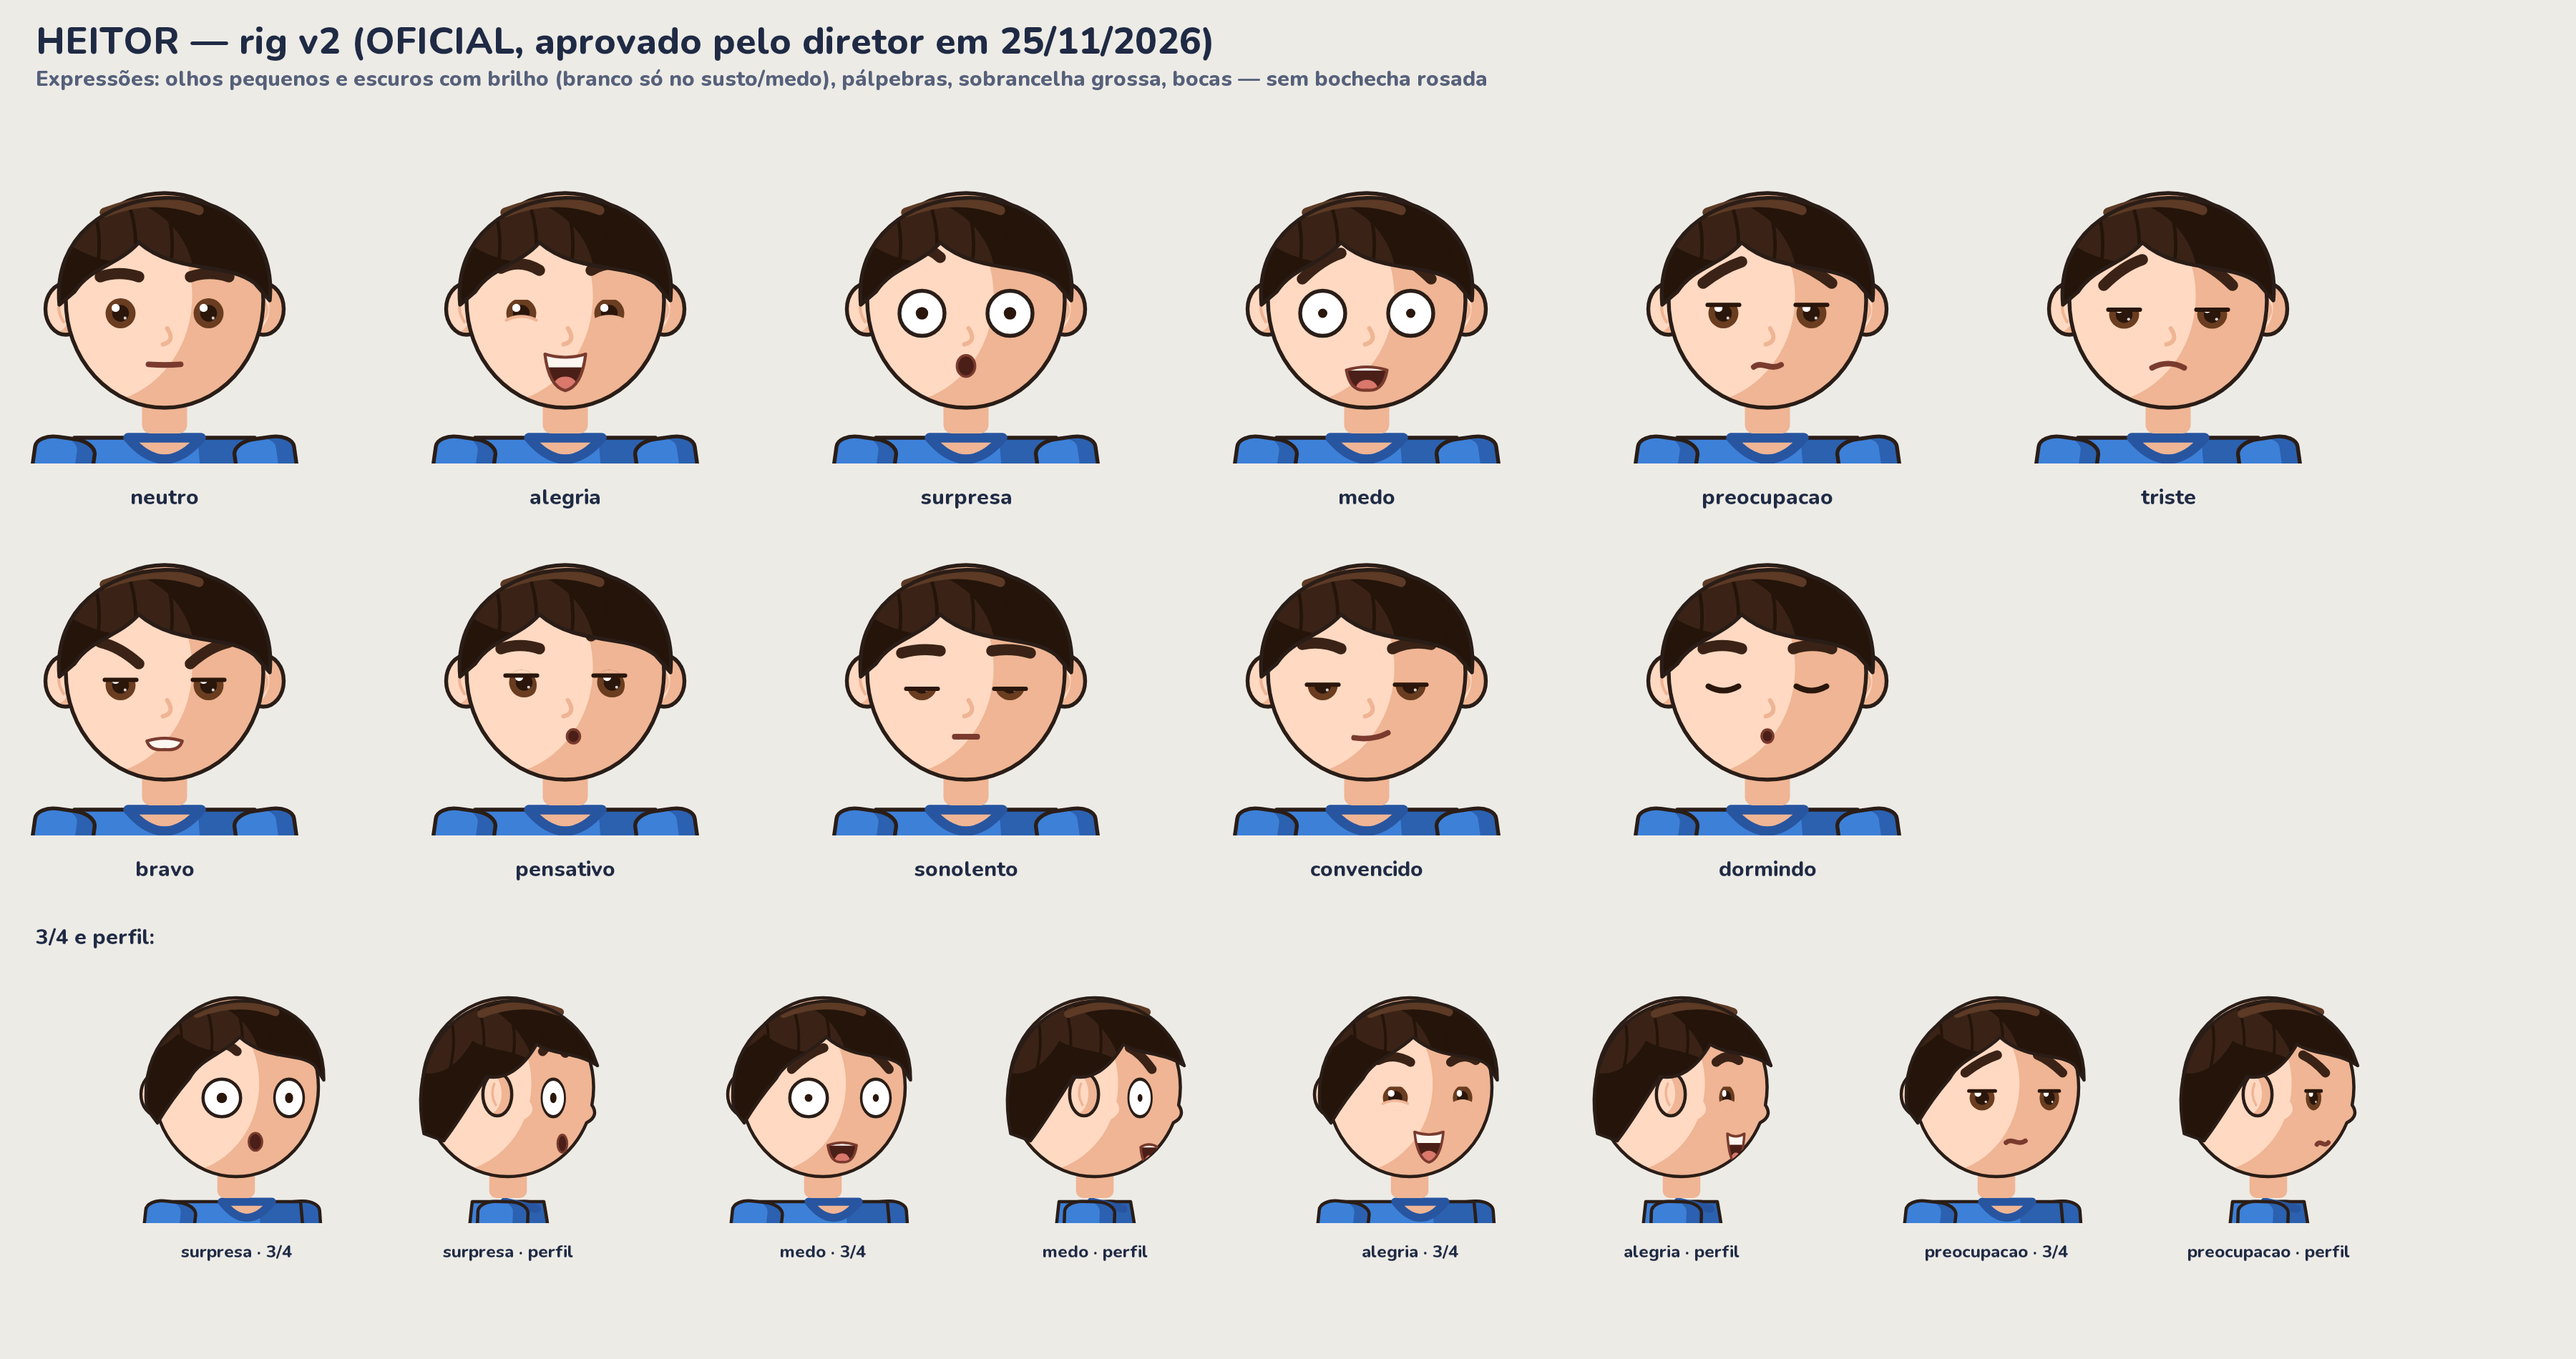
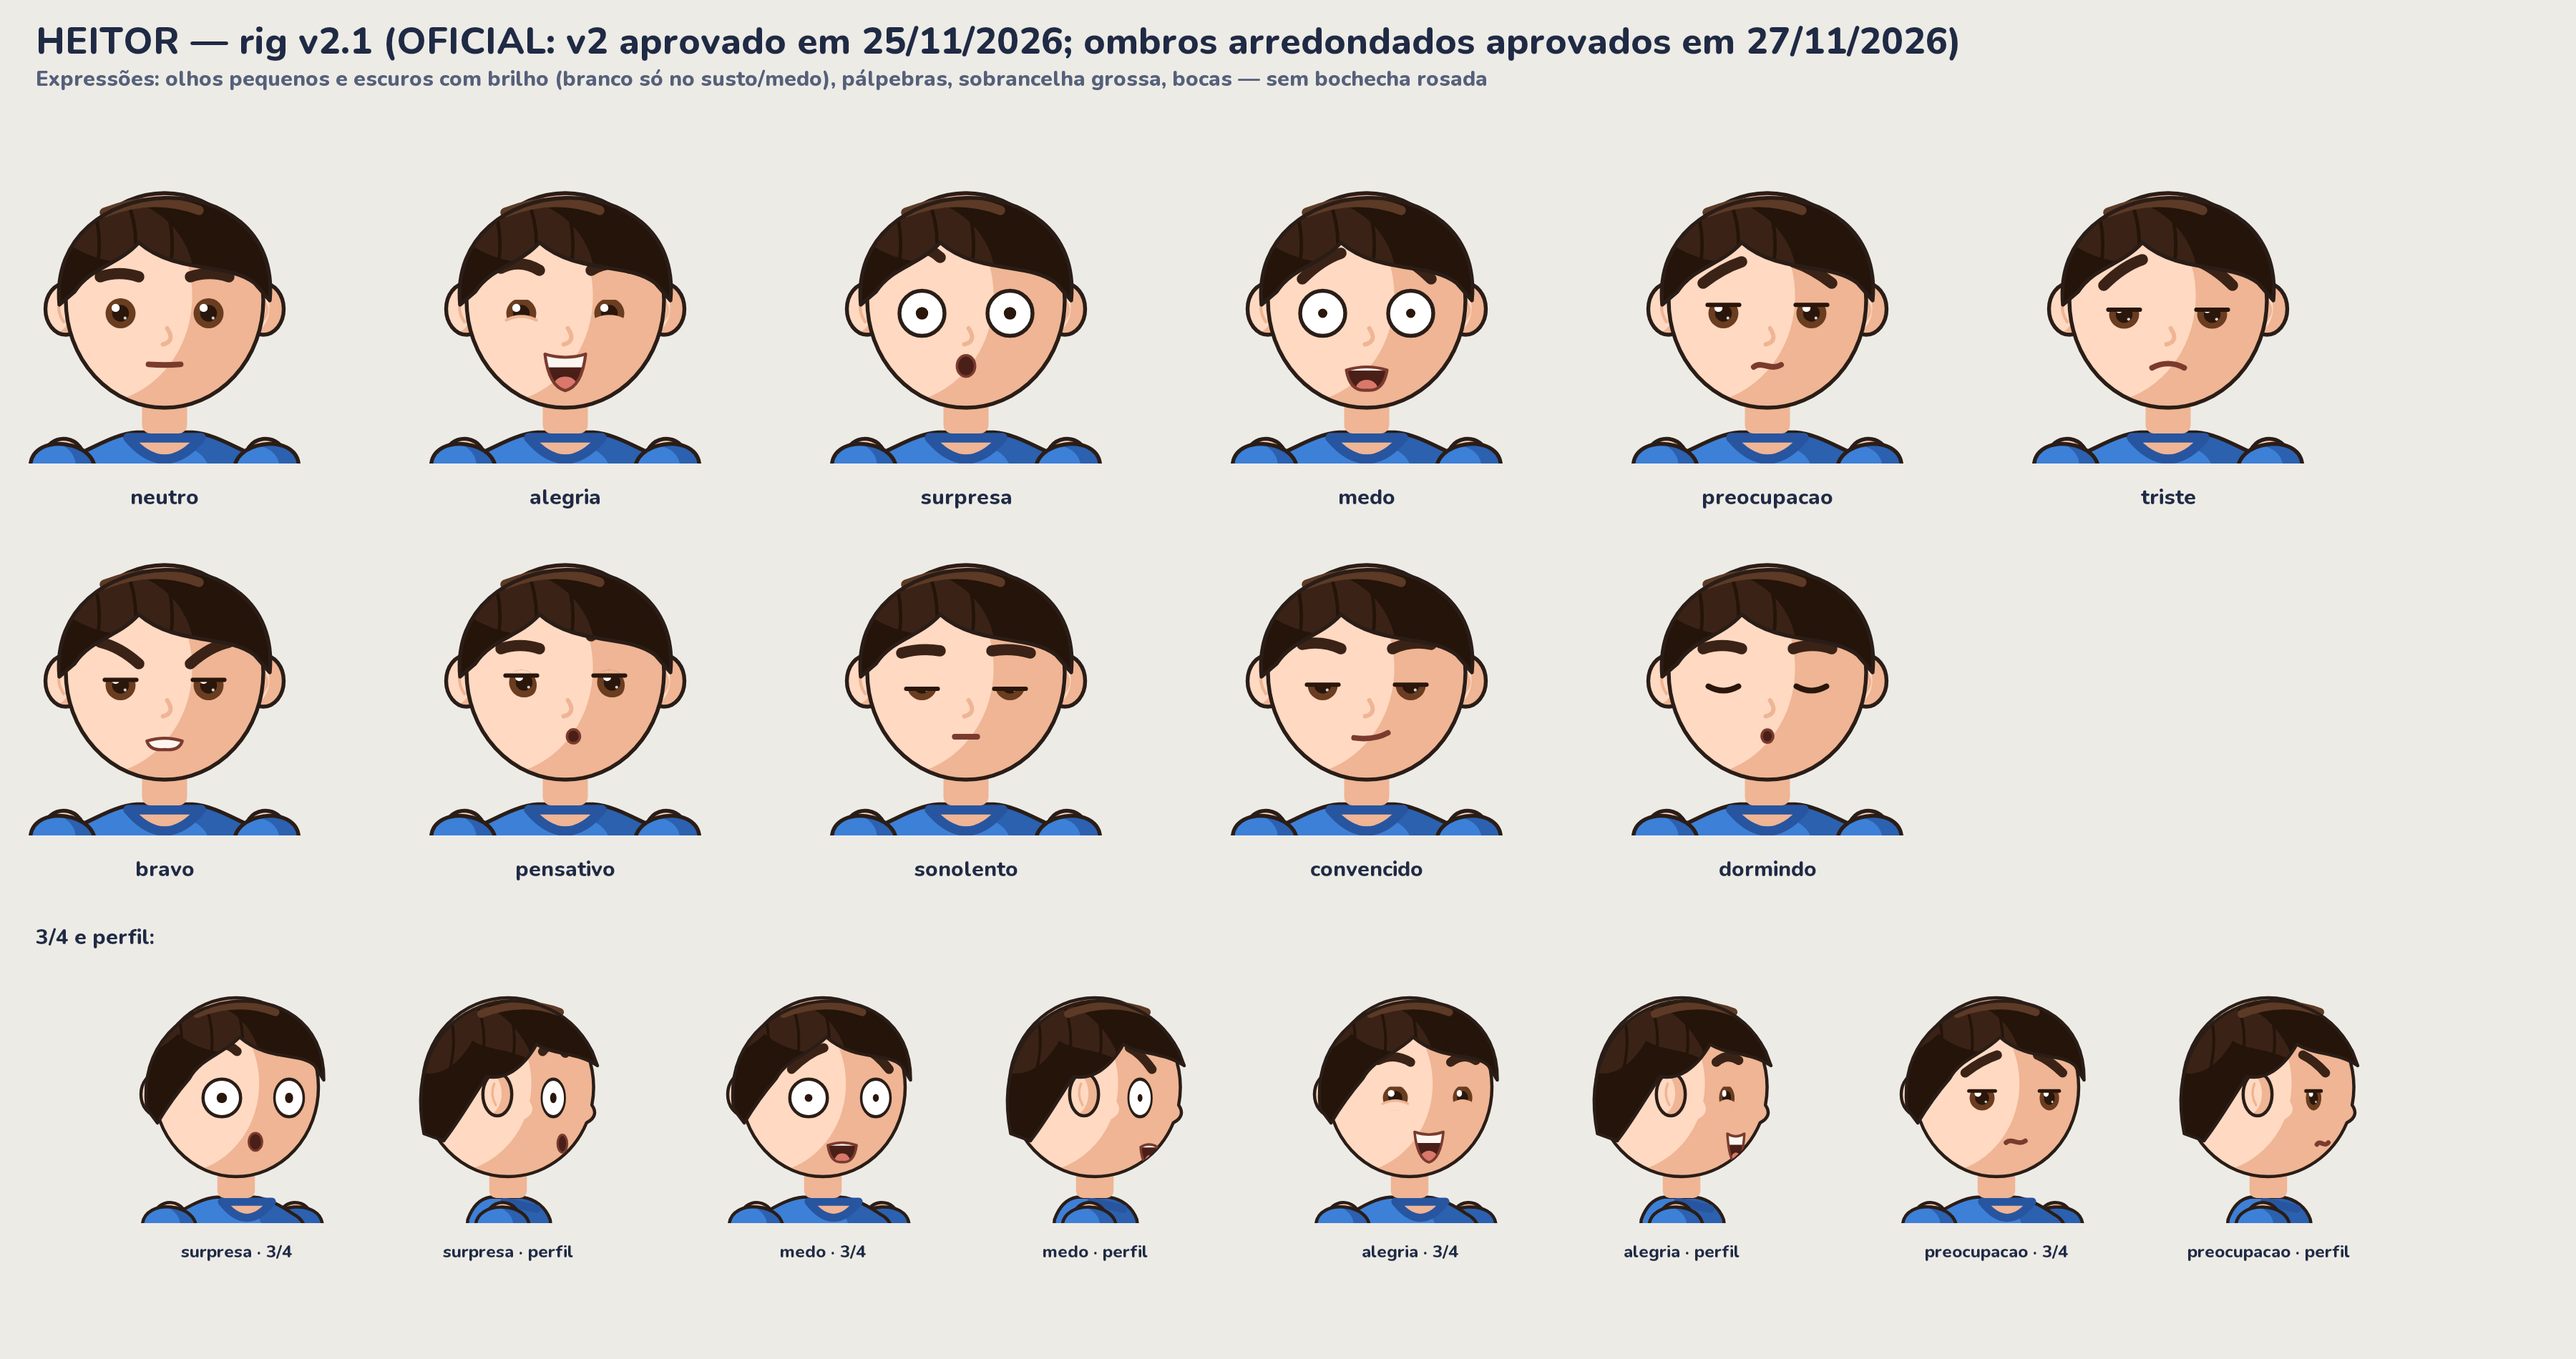
Heitor rig v2.1: ombros arredondados (trapézio do pescoço ao ombro + manga em cúpula), aprovado pelo diretor; F1 6/6, 0 cotovelos invertidos, folhas regeneradas
Claude-Session: https://claude.ai/code/session_011EYkUQs91cFecP9FoWchAQ

diff --git a/personagens/heitor/rig_v2/codigo/heitor_v2.py b/personagens/heitor/rig_v2/codigo/heitor_v2.py
@@ -507,13 +507,27 @@ def _estampa(c, cx, y_base, larg, curva=0.6, perspectiva=0.0, espelhado=False):
 
 
 def _forma_tronco(vista):
+    """v2.1 (27/11/2026, aprovado pelo diretor): do pescoço ao ombro a linha DESCE em curva (trapézio), sem patamar reto; a quina do ombro é redonda."""
     p = skia.Path(); top, hem = OMBRO_Y - 0.1, 0.0
     if vista in ("frente", "costas"):
-        p.moveTo(-0.42, top); p.lineTo(0.42, top); p.quadTo(0.48, -0.55, 0.42, hem); p.lineTo(-0.42, hem); p.quadTo(-0.48, -0.55, -0.42, top)
+        p.moveTo(-0.13, top - 0.025); p.lineTo(0.13, top - 0.025)
+        p.cubicTo(0.22, top - 0.02, 0.31, top + 0.035, 0.40, top + 0.075)          # trapézio descendo
+        p.cubicTo(0.455, top + 0.10, 0.485, top + 0.14, 0.485, top + 0.20)         # quina redonda do ombro
+        p.quadTo(0.49, -0.55, 0.42, hem); p.lineTo(-0.42, hem); p.quadTo(-0.49, -0.55, -0.485, top + 0.20)
+        p.cubicTo(-0.485, top + 0.14, -0.455, top + 0.10, -0.40, top + 0.075)
+        p.cubicTo(-0.31, top + 0.035, -0.22, top - 0.02, -0.13, top - 0.025)
     elif vista == "tres_quartos":
-        p.moveTo(-0.38, top); p.lineTo(0.36, top); p.quadTo(0.42, -0.55, 0.35, hem); p.lineTo(-0.36, hem); p.quadTo(-0.43, -0.55, -0.38, top)
+        p.moveTo(-0.11, top - 0.025); p.lineTo(0.10, top - 0.025)
+        p.cubicTo(0.18, top - 0.02, 0.26, top + 0.03, 0.32, top + 0.07)
+        p.cubicTo(0.37, top + 0.095, 0.39, top + 0.14, 0.39, top + 0.19)
+        p.quadTo(0.43, -0.55, 0.35, hem); p.lineTo(-0.36, hem); p.quadTo(-0.44, -0.55, -0.42, top + 0.19)
+        p.cubicTo(-0.42, top + 0.13, -0.39, top + 0.095, -0.34, top + 0.07)
+        p.cubicTo(-0.27, top + 0.03, -0.19, top - 0.02, -0.11, top - 0.025)
     else:
-        p.moveTo(-0.2, top); p.lineTo(0.2, top); p.quadTo(0.30, -0.6, 0.24, hem); p.lineTo(-0.22, hem); p.quadTo(-0.27, -0.55, -0.2, top)
+        p.moveTo(-0.10, top - 0.025); p.lineTo(0.08, top - 0.025)
+        p.cubicTo(0.15, top - 0.015, 0.21, top + 0.03, 0.235, top + 0.10)
+        p.quadTo(0.30, -0.6, 0.24, hem); p.lineTo(-0.22, hem); p.quadTo(-0.27, -0.55, -0.225, top + 0.10)
+        p.cubicTo(-0.20, top + 0.03, -0.16, top - 0.015, -0.10, top - 0.025)
     p.close(); return p
 
 
@@ -583,7 +597,11 @@ def forma_canela():
 
 
 def desenhar_manga(c, lado_luz, distante=False):
-    mr = skia.Path(); mr.addRRect(skia.RRect.MakeRectXY(skia.Rect.MakeLTRB(-0.14, -0.1, 0.14, 0.26), 0.1, 0.06))
+    """v2.1: manga com topo em cúpula: o ombro fica redondo em qualquer ângulo do braço."""
+    mr = skia.Path(); r = 0.15                                          # cúpula mais baixa: continua a curva do trapézio
+    mr.moveTo(-0.14, 0.26); mr.lineTo(-r, 0.04)
+    mr.cubicTo(-r, -0.03, -0.08, -0.07, 0.0, -0.07); mr.cubicTo(0.08, -0.07, r, -0.03, r, 0.04)
+    mr.lineTo(0.14, 0.26); mr.quadTo(0.0, 0.275, -0.14, 0.26); mr.close()
     cam, cam_s = (C["camisa_s"], C["camisa_s"]) if distante else (C["camisa"], C["camisa_s"])
     preenche(c, mr, cam, cam_s, lado_luz, 0.3)
     c.drawLine(-0.12, 0.225, 0.12, 0.225, traco(C["gola"], 0.012))

diff --git a/personagens/heitor/propostas/ombros_redondos/ombros.py b/personagens/heitor/propostas/ombros_redondos/ombros.py
@@ -1,4 +1,5 @@
-"""PROPOSTA (não aprovada) — ombros arredondados para o Heitor rig v2. NÃO altera o rig: troca, só dentro do bloco
+"""PROPOSTA — APROVADA em 27/11/2026 e INCORPORADA ao rig (v2.1); este arquivo fica como registro da comparação.
+(Antes:) PROPOSTA (não aprovada) — ombros arredondados para o Heitor rig v2. NÃO altera o rig: troca, só dentro do bloco
 `with ativar():`, duas formas do desenho:
 1. tronco: o topo deixa de ser uma reta com cantos vivos; desce do pescoço para os ombros numa curva suave (caimento de
    ombro) e arredonda a quina;

diff --git a/personagens/heitor/rig_v2/codigo/folhas.py b/personagens/heitor/rig_v2/codigo/folhas.py
@@ -17,7 +17,7 @@ import heitor_v2 as H   # noqa: E402
 OUT = AQUI.parent / "folhas"; OUT.mkdir(exist_ok=True)
 FUNDO = 0xFFEDEBE6; TXT = 0xFF1F2A44
 F_T = skia.Font(H.NUNITO, 52); F_S = skia.Font(H.NUNITO, 30); F_P = skia.Font(H.NUNITO, 24)
-CAB = "HEITOR — rig v2 (OFICIAL, aprovado pelo diretor em 25/11/2026)"
+CAB = "HEITOR — rig v2.1 (OFICIAL: v2 aprovado em 25/11/2026; ombros arredondados aprovados em 27/11/2026)"
 
 
 def titulo(c, sub):

diff --git a/CLAUDE.md b/CLAUDE.md
@@ -11,7 +11,7 @@ Responda em português do Brasil. O usuário é o diretor do estúdio. Ele aprov
 ## Estado atual (atualize ao fim de cada etapa)
 - Concluído: auditoria dos 13 MP4 (`docs/AUDITORIA_REFERENCIAS.md`), manuais, identidade oficial (ID-001 a ID-004), arquitetura técnica (proposta, seção 15), ambiente reproduzível (`ambiente/`, `Dockerfile`).
 - Piloto técnico 01 (10 s) produzido em `pilotos/piloto_01_ultimo_homem/` e **aguardando avaliação do diretor**. Feito com o rig v1, hoje substituído pelo v2; voz temporária espeak-ng.
-- **Rig oficial do Heitor: v2** em `personagens/heitor/rig_v2/` (aprovado pelo diretor em 25/11/2026; F1–F4, `RELATORIO_FINAL.md`). Use-o em toda produção nova; ele substitui o rig v1. QA do personagem: `verificar_f1.py`, `verificar_cotovelos.py`, oclusão da marca no cenário.
+- **Rig oficial do Heitor: v2.1** em `personagens/heitor/rig_v2/` (v2 aprovado pelo diretor em 25/11/2026; F1–F4, `RELATORIO_FINAL.md`; **v2.1 em 27/11/2026: ombros arredondados, pescoço→ombro em curva, aprovado; F1 6/6, 0 cotovelos invertidos**; vale a partir do EP02). Use-o em toda produção nova; ele substitui o rig v1. QA do personagem: `verificar_f1.py`, `verificar_cotovelos.py`, oclusão da marca no cenário.
 - **Cenografia** (`cenografia/`): direção aprovada (procedural no Blender + efeitos 2D/2.5D; estilizado cinematográfico; bairro urbano brasileiro; sem sites externos; ordem dos poderes: eletricidade, terra, voo, aranha, elasticidade). E0 a E6 **aprovadas** (cena de prova: `cenografia/testes/e6/E6_cena_prova.mp4`); E7 (núcleo de efeitos em `efeitos/`) **aprovada**; E8 parte 1 (poderes eletricidade e terra, `efeitos/poderes/`) **aprovada** (`cenografia/testes/E8_RELATORIO.md`). **Extensão X1 "tom de luz no personagem" aprovada** em 26/11/2026 (`personagens/heitor/extensoes/x1_tom_de_luz/`; fora do rig; força padrão, sem ajuste): usar `tom_personagem=fazer_tom(...)` nas composições novas com o Heitor. Borda do compositor (camada não pré-multiplicada somada como pré-multiplicada): **o diretor decidiu NÃO corrigir**. **Extensão X2 "voo" aprovada** em 26/11/2026 (`personagens/heitor/extensoes/x2_voo/`; poses de voo, corpo inclinado, roupa e cabelo ao vento, barra solta sobre o cós do jeans; fora do rig): usar `voo.desenhar(...)` nos planos de voo. **E8 parte 2 (poder de voo, `efeitos/poderes/voo.py`) aprovada** em 26/11/2026 ("Pode continuar"; `cenografia/testes/E8_VOO_RELATORIO.md`). Achados em aberto, sem decisão do diretor (NÃO corrigir sem autorização): núcleo de efeitos lê o skia não pré-multiplicado (brilhos 5,6× mais fortes que o desenhado); auxiliar `altura_pelve` da X2 induz pés afundados ao agachar. **Extensão X3 "aranha" aprovada** em 26/11/2026 (`personagens/heitor/extensoes/x3_aranha/`; escalada, balanço no fio, gesto de lançar próprio; fora do rig). **E8 parte 3 (poder de aranha, `efeitos/poderes/aranha.py`) aprovada** em 26/11/2026 (`cenografia/testes/E8_ARANHA_RELATORIO.md`). **Extensão X4 "elasticidade" aprovada** em 26/11/2026 (`personagens/heitor/extensoes/x4_elasticidade/`; estica só antebraço e coxa pelo escorço do rig; usar `elasticidade.desenhar`). **E8 parte 4 (poder de elasticidade, `efeitos/poderes/elasticidade.py`) aprovada** em 26/11/2026 (`cenografia/testes/E8_ELASTICIDADE_RELATORIO.md`). **E9 (combinações de poderes, `cenografia/testes/E9_RELATORIO.md`) e relatório final da fase (`cenografia/RELATORIO_FINAL.md`) entregues e aguardando aprovação.** Voo, aranha e elasticidade só depois da aprovação específica das extensões do rig (apresentar cada uma à parte). Nenhuma extensão do rig sem aprovação específica.
 - **Narração (em teste):** integração MiniMax T2A V2 em `narracao/` (cliente com orçamento, cache e registro; diretor de narração; T0 OK sem rede). Voz candidata oficial `Portuguese_CaptivatingStoryteller` (voz do sistema MiniMax, escolhida pelo diretor em 26/11/2026; listada pela API, síntese ainda não testada); o clone `moss_audio_f28d61d6-…` (Matheus) é proibido, sem troca automática de voz. **Créditos limitados (plano Starter US$ 5): nenhuma síntese sem autorização registrada em `narracao/orcamento.json`; contar caracteres antes; nunca repetir chamada sem avaliar cobrança.** T1 feito (chave autentica em api.minimax.io); T2 recusado com código 1008 (sem saldo na API: o plano Starter é do site MiniMax Audio, não da API). **Novo fluxo aprovado em 26/11/2026:** o diretor gera no site MiniMax Audio e envia o áudio + texto; a pós-produção é `narracao/pos/` (`processar.py ficha | analisar | finalizar`; F0 sintética 28/28 OK). Pausas por intenção até 0,7 s (nunca ≥ 0,8 s), narração em −16 LUFS / −1,5 dBTP, alinhamento por espeak-ng + DTW. Alinhamento principal: Whisper local (faster-whisper "medium"; rede libera o Hugging Face). **EP01 (5 cm):** narração oficial = 1ª geração do diretor, em "você" (`producoes/ep01_cinco_centimetros/narracao_falada.txt`), pós-produção em `narracao/edicoes/ep01_narracao/` (110,2 s, QA 13/13), aguardando avaliação do diretor. **EP01 PRODUZIDO** (autorização total do diretor, 26/11/2026): `producoes/ep01_cinco_centimetros/` (README com entregas, QA e limitações), vídeo `export/MC_ep01_cinco_centimetros_v1.mp4` (113,4 s), **aguardando avaliação do diretor**. Personagens originais gato e aranha em `personagens/animais/`. **E10 (cenários do EP01):** parte 1 entregue (`cenografia/componentes/interior.py`, quarto em escala macro, 4 planos em `cenografia/testes/e10/`, relatório `cenografia/testes/E10_RELATORIO.md`); próxima: parte 2 (escada, sala com gato, aranha, vento/poça, insert científico). F2 calibra o preset de voz.
 - **Não iniciar produção em escala nem novos pilotos sem autorização explícita do usuário.**

diff --git a/personagens/heitor/rig_v2/RELATORIO_FINAL.md b/personagens/heitor/rig_v2/RELATORIO_FINAL.md
@@ -52,3 +52,18 @@ cd personagens/heitor/rig_v2
 
 ## Decisão do diretor
 **Aprovado e autorizado (25/11/2026).** O rig v2 passa a ser o rig oficial do Heitor. Foi trocado no pipeline (`docs/PIPELINE_PRODUCAO.md`, seção 15) e no skill (`skills/modo-curioso-padrao/SKILL.md`). Nenhum vídeo de história foi iniciado: isso continua dependendo de autorização explícita.
+
+---
+
+## Versão 2.1 — ombros arredondados (27/11/2026)
+- **Pedido do diretor:** ombros mais arredondados e passagem mais natural do pescoço para o corpo.
+- **Aprovação:** proposta feita fora do rig (`personagens/heitor/propostas/ombros_redondos/`, folha antes × depois) e aprovada pelo diretor ("Melhorou assim").
+- **Mudança** (só duas formas de `codigo/heitor_v2.py`):
+  - `_forma_tronco`: do pescoço ao ombro a linha desce em curva (trapézio), sem patamar reto, com a quina do ombro redonda, nas 4 vistas;
+  - `desenhar_manga`: topo da manga em cúpula, mais baixo, continuando a curva do trapézio.
+- **O que ficou igual:** esqueleto, proporções, articulações, rosto, cabelo, estampa, cores e todas as funções de animação.
+- **Testes refeitos:**
+  - F1: 6/6 vistas OK, com alturas, paleta ≥ 96,5 % e estampa lida na frente e no 3/4;
+  - cotovelos: 0 invertidos em todos os conjuntos;
+  - folhas de modelo, expressões e articulações regeneradas.
+- **Vídeos anteriores:** o EP01 foi feito com a v2 e não muda. A v2.1 vale a partir do EP02.

diff --git a/personagens/heitor/rig_v2/verificacao/f1_consistencia.md b/personagens/heitor/rig_v2/verificacao/f1_consistencia.md
@@ -4,9 +4,9 @@ Medido em pixels (altura 1200 px; 1 H = 300 px). Tolerância: ±0.08 H (2 % da a
 
 | Vista | Topo | Olhos | Barra camiseta | Barra calça | Sola | Paleta oficial | Estampa (OCR) | Resultado |
 |---|---|---|---|---|---|---|---|---|
-| frente | 4.01 | 3.44 | 1.73 | 0.25 | -0.01 | 96.8 % | lida ✓ | OK |
+| frente | 4.01 | 3.44 | 1.73 | 0.25 | -0.01 | 96.7 % | lida ✓ | OK |
 | tres_quartos | 4.01 | 3.44 | 1.73 | 0.25 | -0.01 | 96.7 % | lida ✓ | OK |
-| perfil | 4.01 | 3.44 | 1.73 | 0.25 | -0.01 | 96.4 % | não lida ✓ | OK |
+| perfil | 4.01 | 3.44 | 1.73 | 0.25 | -0.01 | 96.5 % | não lida ✓ | OK |
 | costas | 4.01 | — | 1.73 | 0.25 | -0.01 | 97.4 % | não lida ✓ | OK |
-| tres_quartos (espelho) | 4.01 | 3.44 | 1.73 | 0.25 | -0.01 | 96.7 % | lida ✓ | OK |
+| tres_quartos (espelho) | 4.01 | 3.44 | 1.73 | 0.25 | -0.01 | 96.6 % | lida ✓ | OK |
 | perfil (espelho) | 4.01 | 3.44 | 1.73 | 0.25 | -0.01 | 96.6 % | não lida ✓ | OK |
